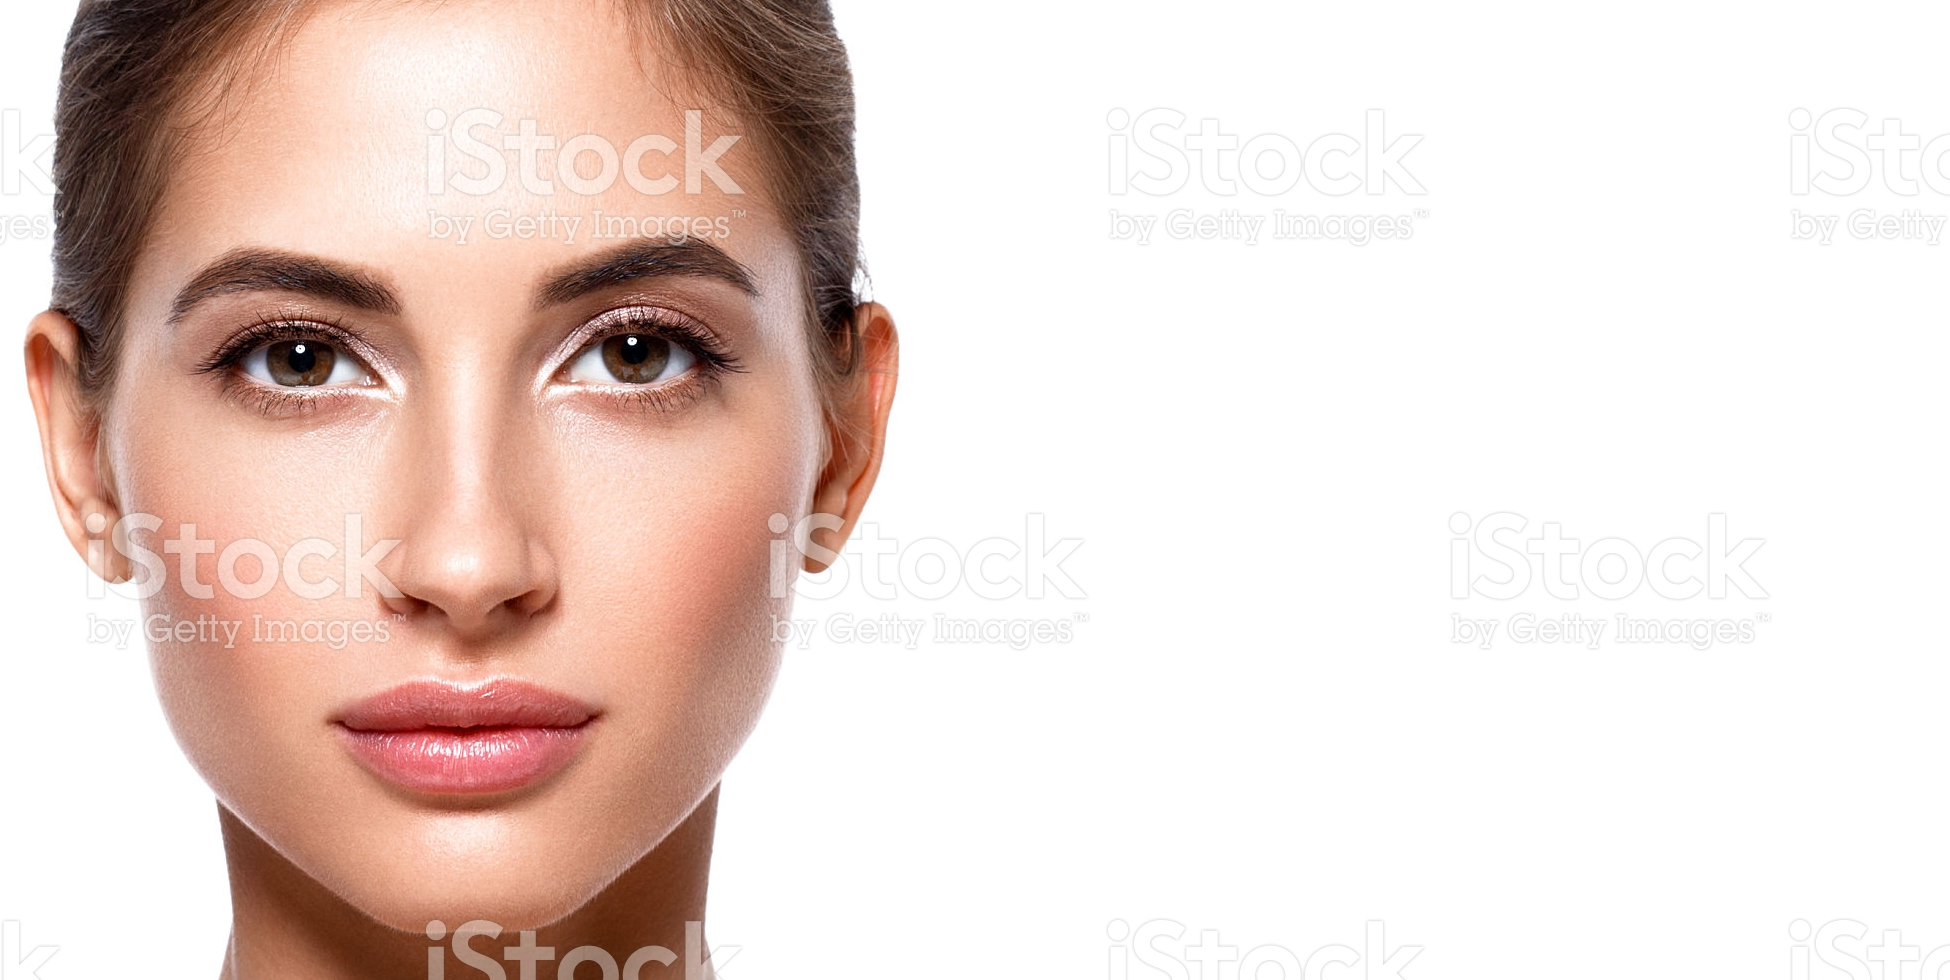
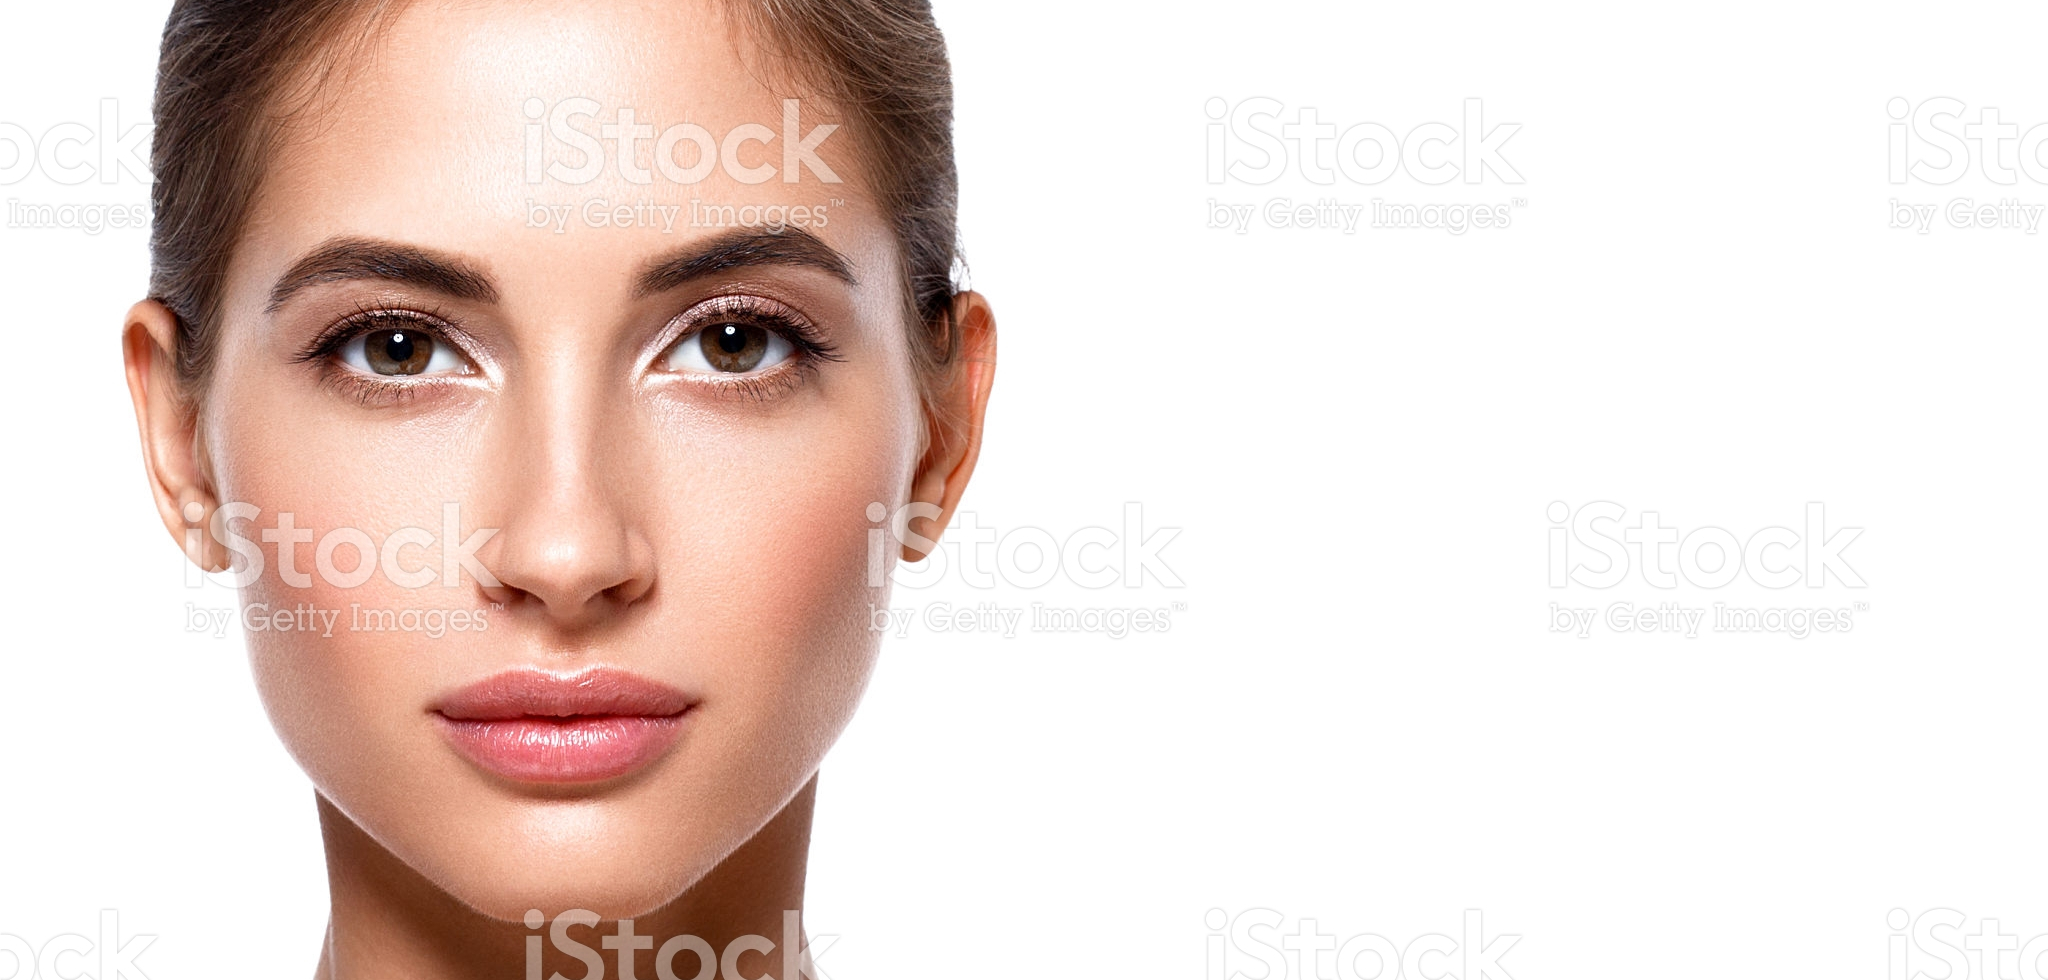
responsive upgrade

diff --git a/index.html b/index.html
@@ -13,9 +13,18 @@
         @import url('https://fonts.googleapis.com/css?family=Lato');
         body, html {
             font-family: 'Lato' !important;
-
+            font-style: normal; 
+            font-weight: 400; 
         }
 
+        /* @font-face { 
+          font-family: "Lato"; 
+          font-style: normal; 
+          font-weight: 400; 
+          src: local("Lato Regular"), local("Lato-Regular"), 
+          url("http://fonts.gstatic.com/s/lato/v14/S6uyw4BMUTPHjx4wXg.woff2") format("woff2"); 
+          unicode-range: U+0-FF, U+131, U+152-153, U+2BB-2BC, U+2C6, U+2DA, U+2DC, U+2000-206F, U+2074, U+20AC, U+2122, U+2191, U+2193, U+2212, U+2215, U+FEFF, U+FFFD; 
+        } */
 
                         /* CUSTOMIZE THE CAROUSEL
             -------------------------------------------------- */
@@ -27,13 +36,16 @@
          }
             /* Since positioning the image, we need to help out the caption */
         .carousel-caption {
-            bottom: 3rem;
-            z-index: 10;
+
+            background-color: rgba(255, 255, 255, 0.7);
+            border-radius: 25px;
         }
 
+
         .carousel-inner img {
-            -webkit-filter: grayscale(5%);
-            filter: grayscale(5%); /* make all photos black and white */
+            -webkit-filter: grayscale(1%);
+            filter: grayscale(1%);
+             /* make all photos black and white */ 
                 /*width: 100%; /* Set width to 100% */
                 /* max-width: 100%;
                 height: auto; */
@@ -45,7 +57,7 @@
             background-image: url("./pictures/939254940.jpg");
 
             /* Set a specific height */
-            height: 30vh;
+            height: 15vh;
 
             /* Create the parallax scrolling effect */
             background-attachment: fixed;
@@ -72,25 +84,54 @@
         }
             /* RESPONSIVE CSS
             -------------------------------------------------- */
-
-        @media (min-width: 40em) {
-            /* Bump up size of carousel content */
-           .carousel-caption p {
-                margin-bottom: 1.25rem;
-                font-size: 1.25rem;
-                line-height: 1.4;
+            @media screen and (max-width: 575px) {
+              
+                a.navbar-brand img {
+                  height: 90px !important;
+                }
+                
+                .carousel-inner img {
+                  
+                  transform: translateX(-20%);
+                  max-width: 200%;
+                }
+              
             }
 
-            .featurette-heading {
-                font-size: 50px;
-            }
-        }
 
-        @media (min-width: 62em) {
-            .featurette-heading {
-                margin-top: 7rem;
+            @media (min-width: 576px) and (max-width: 767px) {
+              .carousel-inner img {
+                max-width: 175%;
+                transform: translateX(-25%);
+              }                       
+                                     
+            
+             }
+            @media (min-width: 768px) and (max-width: 998px) {
+              .carousel-inner img{
+                -webkit-filter: grayscale(40%);
+                filter: grayscale(40%);
+                transform: translateX(-25%);
+                max-width: 150%;
+              }
+
+
             }
-        }
+
+             @media (max-width: 998px) {
+              .parallax { 
+                display: none !important; 
+              }
+              p.card-text, a.nav-link, a.dropdown-item, h2 {
+                font-size: 1rem;
+                display:block !important;
+              }
+
+              .carousel-inner img{
+                -webkit-filter: grayscale(80%);
+                filter: grayscale(80%);
+              }
+            }
 
 
     </style>
@@ -145,28 +186,28 @@
                     <div class="carousel-inner ">
                       <div class="carousel-item active">
                         <img class="img-fluid" src="./pictures/116378677.jpg" alt="First slide">
-                        <div class="carousel-caption d-none d-md-block text-dark">
+                        <div class="carousel-caption d-md-block text-dark">
                                 <h2>Masaż gorącymi kamieniami</h2>
                                 <p>Połączenie technik relaksacyjnych z właściwościami uzdrawiającym</p>
                         </div>
                       </div>
                       <div class="carousel-item">
                         <img class="img-fluid" src="./pictures/461058251.jpg" alt="Second slide">
-                        <div class="carousel-caption d-none d-md-block text-dark">
+                        <div class="carousel-caption d-md-block text-dark">
                                 <h2>Makijaż pernamentny brwi</h2>
                                 <p>Metoda pudrowa</p>
                         </div>
                        </div>
                       <div class="carousel-item">
-                        <img class="d-block w-100" src="./pictures/475975168.jpg" alt="Third slide">
-                        <div class="carousel-caption d-none d-md-block text-dark">
+                        <img class="img-fluid" src="./pictures/475975168.jpg" alt="Third slide">
+                        <div class="carousel-caption d-md-block text-dark">
                                 <h2>Podologia</h2>
                                 <p>Stopy bez tajemnic</p>
                         </div>
                       </div>
                       <div class="carousel-item">
-                        <img class="d-block w-100" src="./pictures/625334766.jpg" alt="Fourth slide">
-                        <div class="carousel-caption d-none d-md-block text-dark">
+                        <img class="img-fluid" src="./pictures/625334766.jpg" alt="Fourth slide">
+                        <div class="carousel-caption d-md-block text-dark">
                                <h2>Makijaż profesjonalny</h2>
                                <p>Eksponuje urodę, podkreśla jej subtelność</p>
                         </div>
